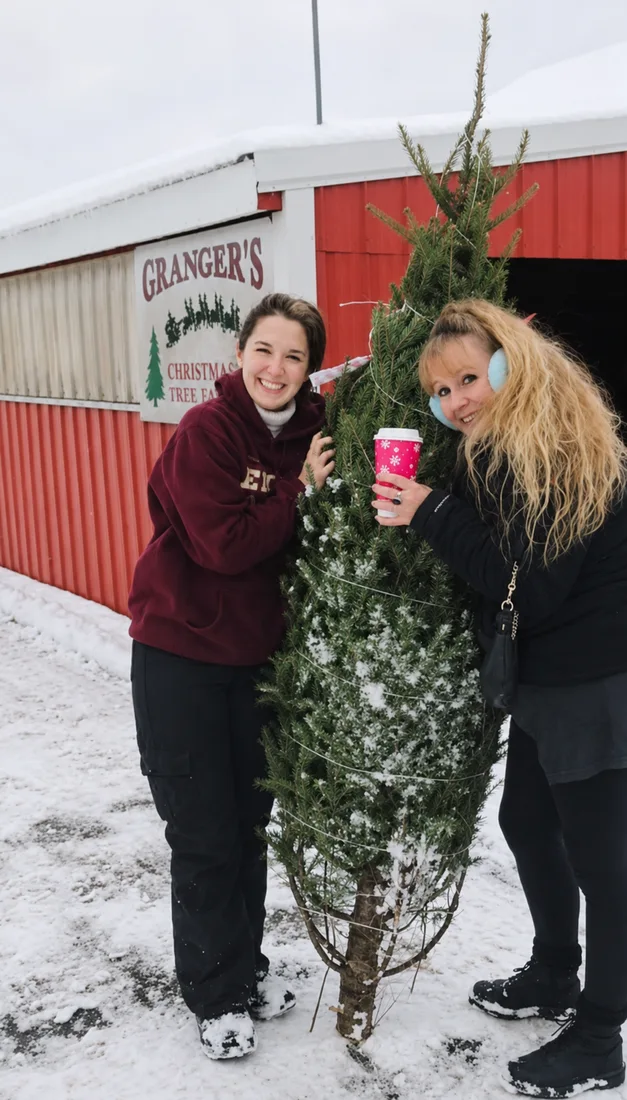
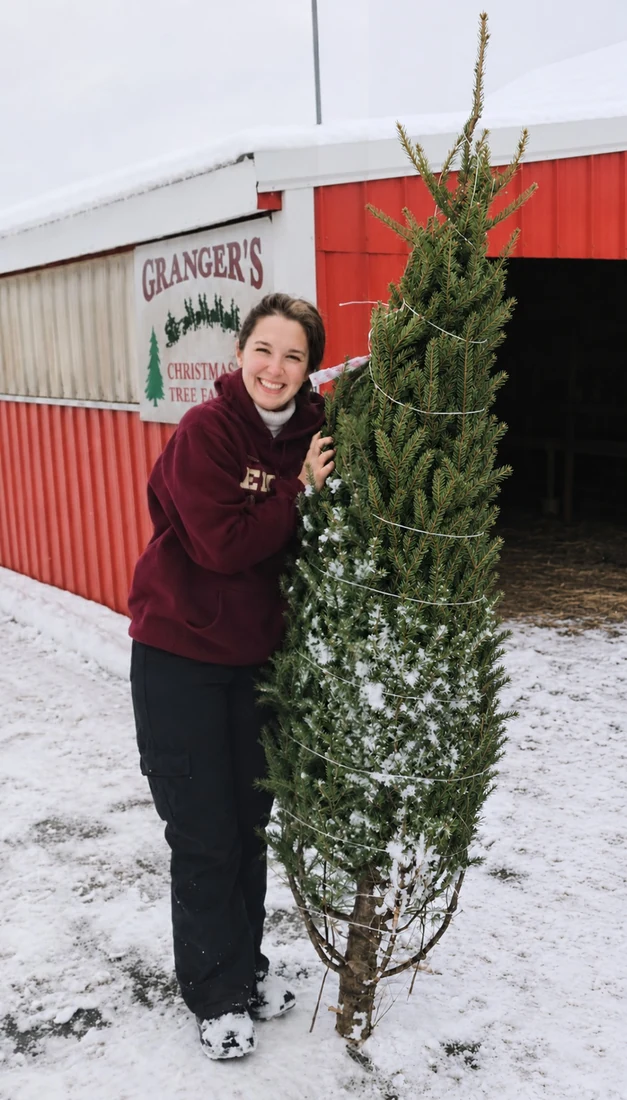
Update Andrea’s Christmas tree photo in the family story

diff --git a/our-family-farm/index.html b/our-family-farm/index.html
@@ -47,7 +47,7 @@
 </div>
 <p>The original Hallmark movie started right here on Tubbs Road. Andrea, Randy’s oldest daughter, grew up working on the farm. It made her grandfather proud to see the care Andrea put into her work. He liked to brag about how well she shaped the Christmas trees and how clean a field looked after she’d been through with the bush hog. She spent a few years in the city learning how businesses run, then brought what she learned back home. Today, she runs the farm kitchen as her grandmother did and makes decisions about the goat herd. She’s still learning from her dad about the land and growing Christmas trees, and from her uncle about the equipment, buildings, and work that keep the farm running. If you can’t find Andrea in the kitchen, she’s probably in the goat pen sorting out whatever the goats got into this time.</p>
 <div class="family-story-feature family-story-field-photos family-story-andrea-photos" role="group" aria-label="Family memories and caring for the goats">
-<a href="/assets/family-story-snowy-christmas-tree.webp"><img src="/assets/family-story-snowy-christmas-tree.webp" width="627" height="1100" loading="lazy" decoding="async" alt="Two women beside a bundled Christmas tree outside the snowy farm barn"></a>
+<a href="/assets/family-story-snowy-christmas-tree.webp"><img src="/assets/family-story-snowy-christmas-tree.webp" width="627" height="1100" loading="lazy" decoding="async" alt="Andrea beside a bundled Christmas tree outside the snowy farm barn"></a>
 <a href="/assets/family-story-childhood-reading.webp"><img src="/assets/family-story-childhood-reading.webp" width="880" height="880" loading="lazy" decoding="async" alt="A man reading a book with a young child on his lap"></a>
 <a href="/assets/family-story-andrea-goats.webp"><img src="/assets/family-story-andrea-goats.webp" width="880" height="880" loading="lazy" decoding="async" alt="Andrea bottle-feeding baby goats in the barn"></a>
 </div>
